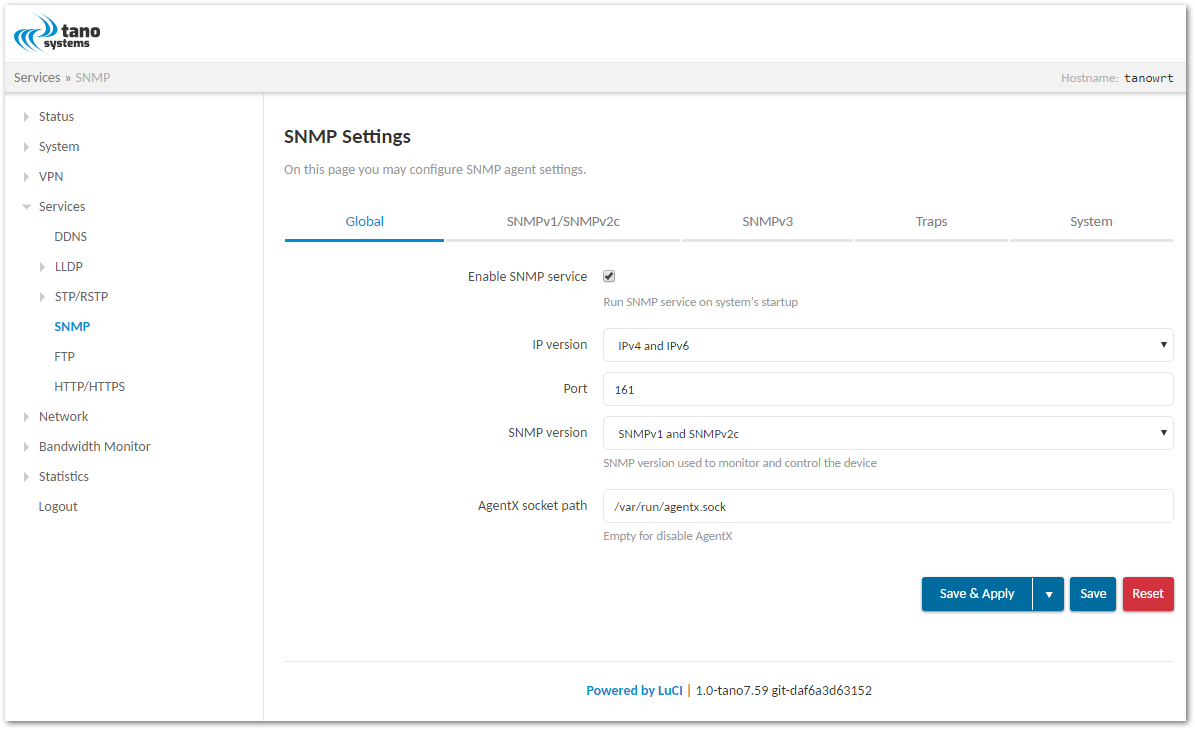
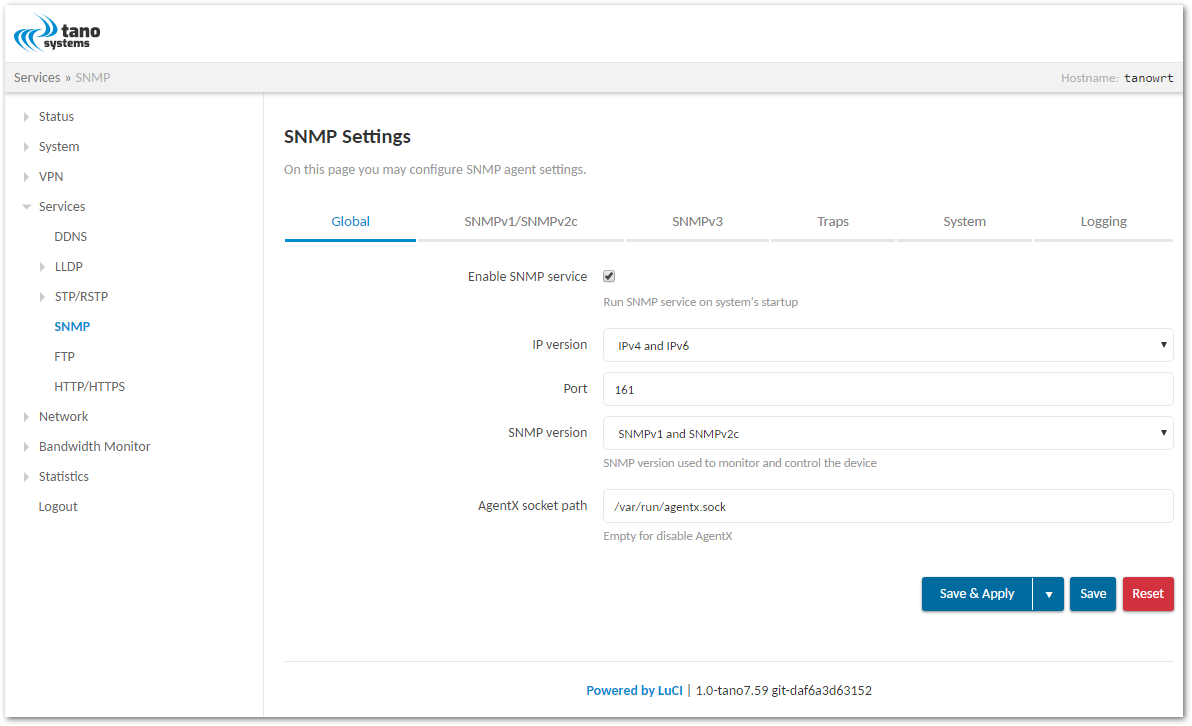
README.md: Update screenshots

diff --git a/README.md b/README.md
@@ -34,3 +34,6 @@ For SNMPv3 support you need to use customized snmpd procd init script from [meta
 
 ### SNMP System Settings
 ![SNMP System Settings](screenshots/luci-app-tn-snmpd-system.png?raw=true "SNMP System Settings")
+
+### SNMP Logging Settings
+![SNMP Logging Settings](screenshots/luci-app-tn-snmpd-logging.png?raw=true "SNMP Logging Settings")
